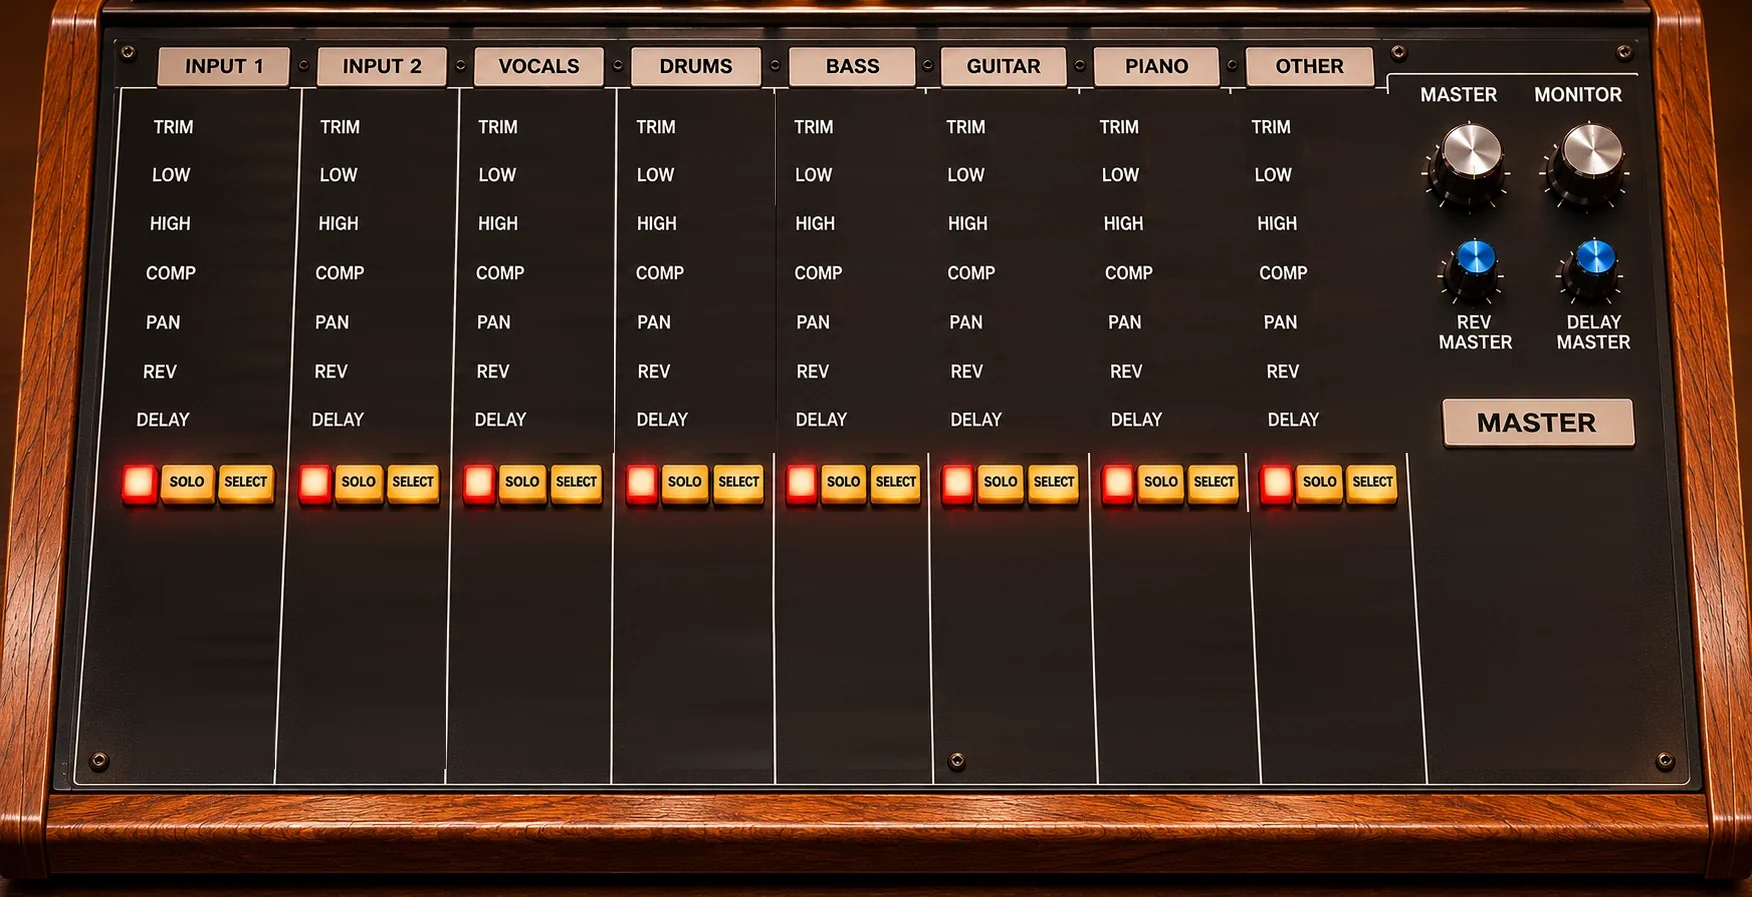
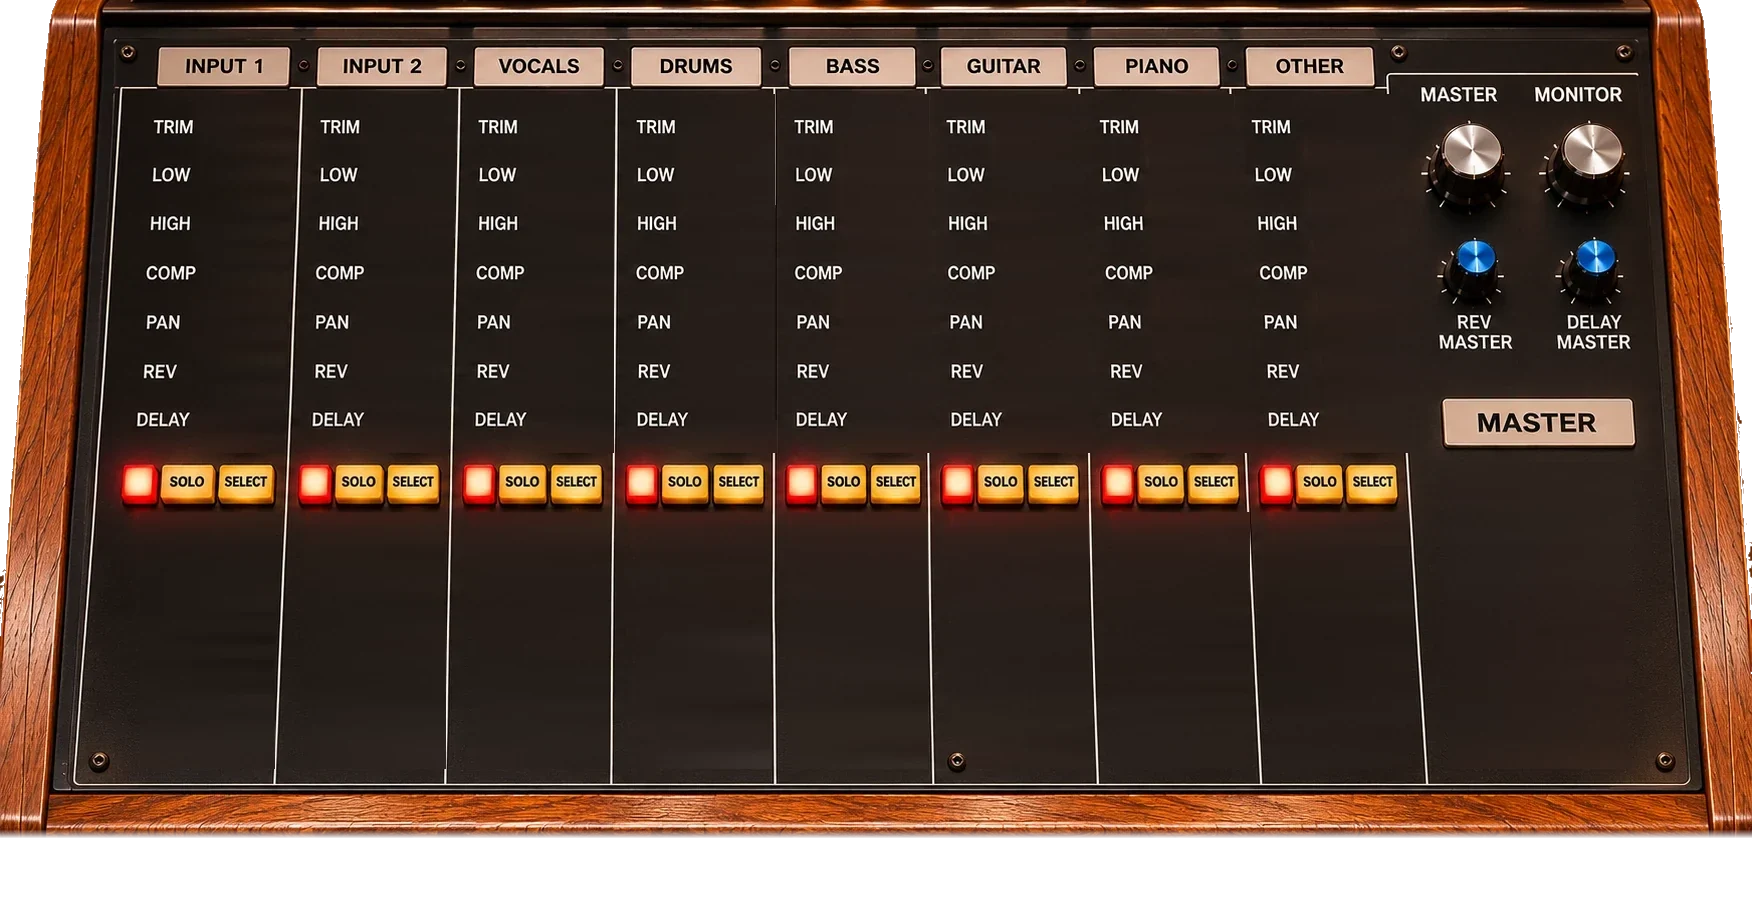
fix(mesa): la mesa y la grabadora recortadas por su contorno
- Las fotos traían un trozo de fondo a los lados (la grabadora, negro; la mesa, la habitación)
  que se veía como un rectángulo alrededor. Ahora son transparentes fuera del aparato: la madera
  en diagonal de la mesa y las esquinas redondeadas de la grabadora, con el borde suavizado, y la
  mesa cortada en recto justo debajo de su madera.

Changed region(s): [[0.0, 0.9052, 1.0, 1.0], [0.9555, 0.0, 1.0, 0.6867], [0.0, 0.0, 0.0308, 0.6555]]

diff --git a/public/sw.js b/public/sw.js
@@ -2,7 +2,7 @@
 // en un escenario…). La página se pide a la red primero y, si no hay, se usa
 // la copia guardada. Los archivos con huella (/_next/static) no cambian nunca.
 
-const CACHE = "clavija-app-v60";
+const CACHE = "clavija-app-v61";
 
 self.addEventListener("install", (e) => {
   self.skipWaiting();
